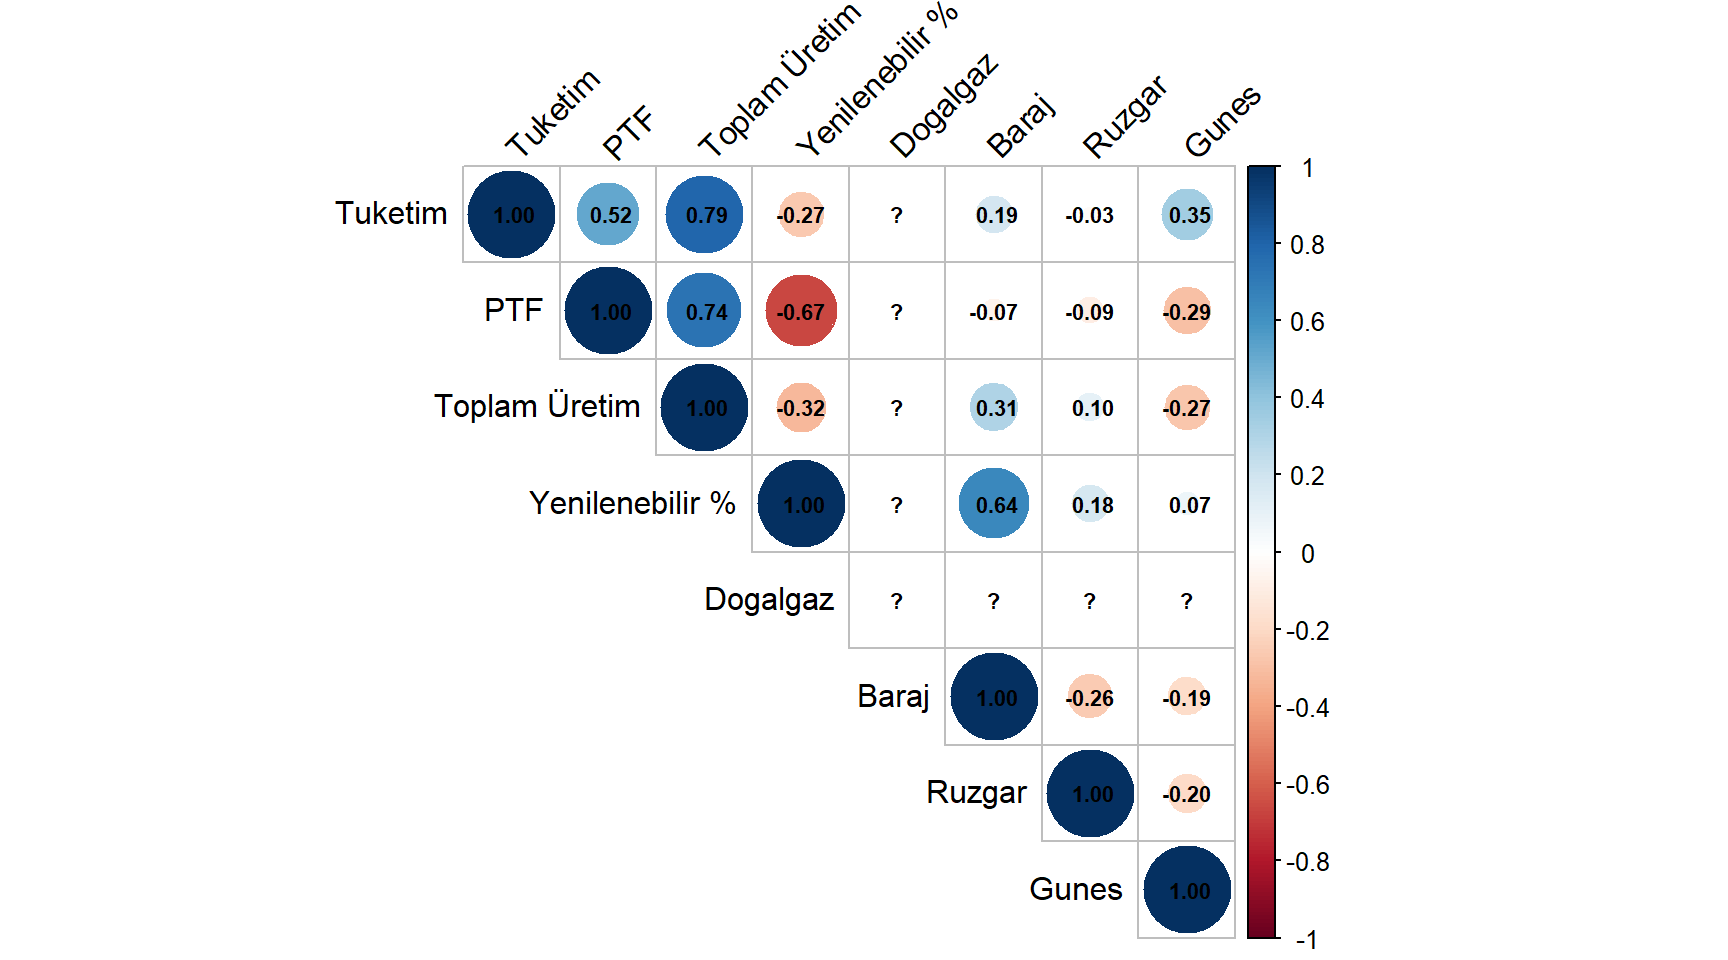
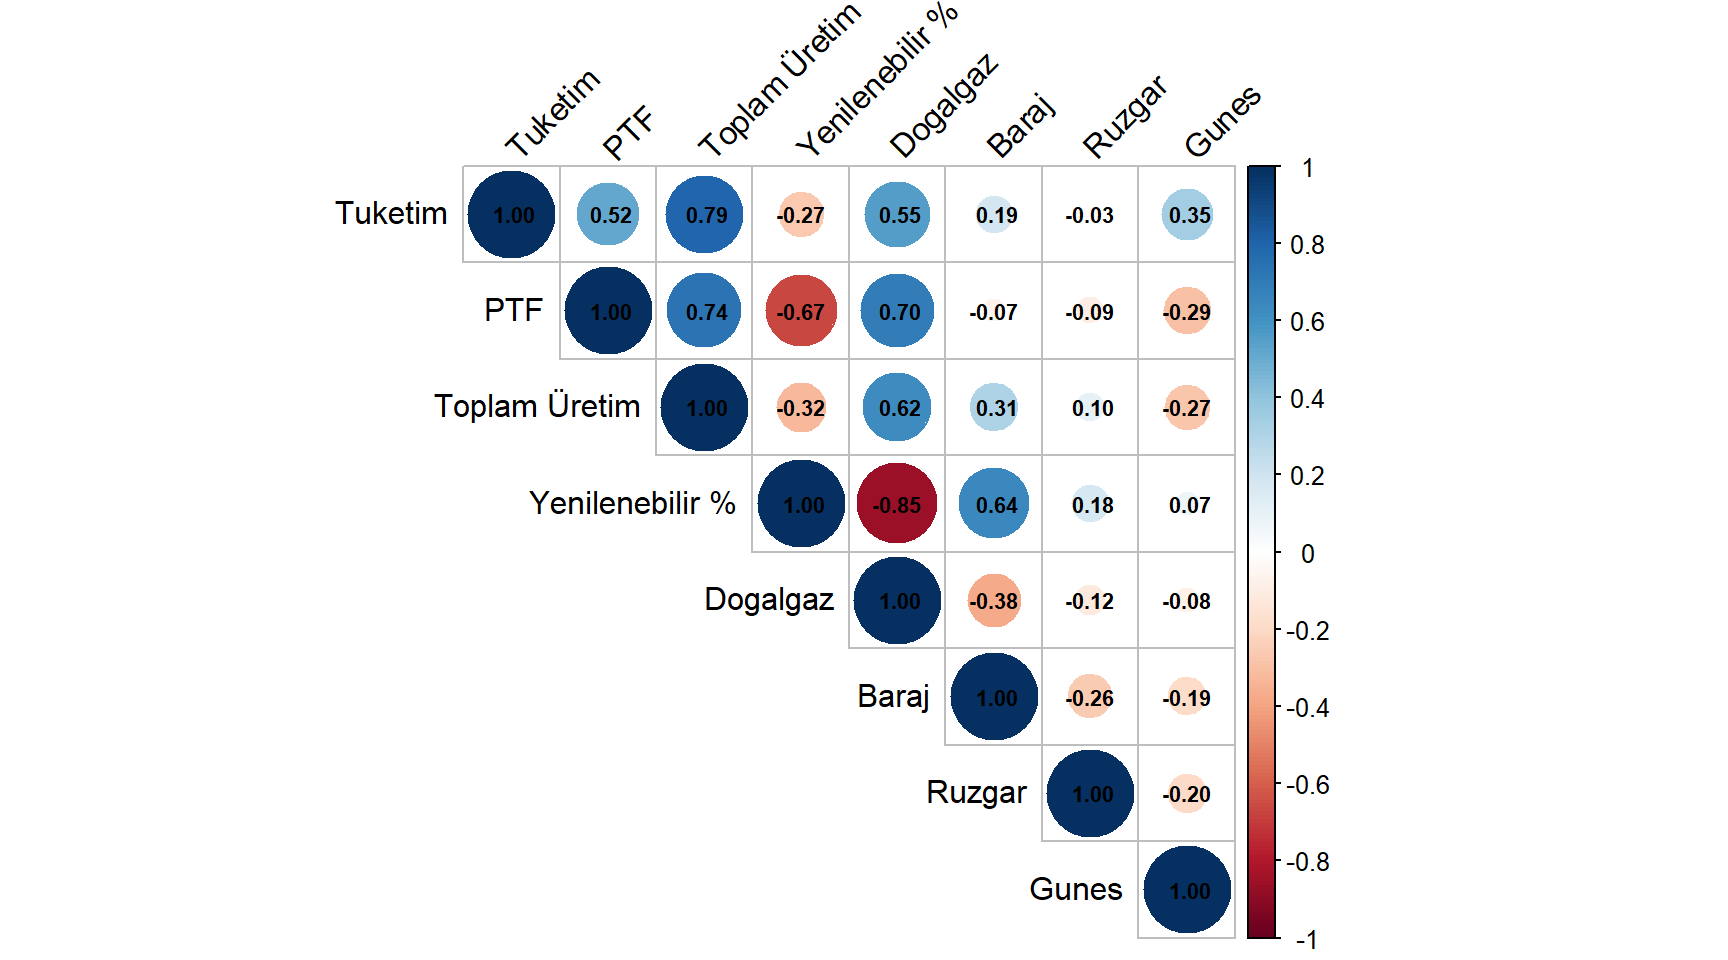
LASTEST_LAST
son duzenleme

Changed region(s): [[0.4688, 0.1875, 0.5938, 0.6875], [0.625, 0.5938, 0.6562, 0.6562]]

diff --git a/docs/proje.html b/docs/proje.html
@@ -903,7 +903,7 @@ F-statistic:  1430 on 2 and 2181 DF,  p-value: &lt; 2.2e-16</code></pre>
 <summary>Code</summary>
 <div class="code-copy-outer-scaffold"><div class="sourceCode cell-code" id="cb19"><pre class="sourceCode r code-with-copy"><code class="sourceCode r"><span id="cb19-1"><a href="#cb19-1" aria-hidden="true" tabindex="-1"></a>kor_src <span class="ot">&lt;-</span> <span class="fu">tibble</span>(</span>
 <span id="cb19-2"><a href="#cb19-2" aria-hidden="true" tabindex="-1"></a>  <span class="at">tarih    =</span> kaynak_genis<span class="sc">$</span>tarih,</span>
-<span id="cb19-3"><a href="#cb19-3" aria-hidden="true" tabindex="-1"></a>  <span class="at">Dogalgaz =</span> <span class="fu">pick_col</span>(kaynak_genis, <span class="st">"dogalgaz|gas"</span>),</span>
+<span id="cb19-3"><a href="#cb19-3" aria-hidden="true" tabindex="-1"></a>  <span class="at">Dogalgaz =</span> <span class="fu">pick_col</span>(kaynak_genis, <span class="st">"dogal"</span>),</span>
 <span id="cb19-4"><a href="#cb19-4" aria-hidden="true" tabindex="-1"></a>  <span class="at">Baraj    =</span> <span class="fu">pick_col</span>(kaynak_genis, <span class="st">"baraj"</span>),</span>
 <span id="cb19-5"><a href="#cb19-5" aria-hidden="true" tabindex="-1"></a>  <span class="at">Ruzgar   =</span> <span class="fu">pick_col</span>(kaynak_genis, <span class="st">"ruzgar|wind"</span>),</span>
 <span id="cb19-6"><a href="#cb19-6" aria-hidden="true" tabindex="-1"></a>  <span class="at">Gunes    =</span> <span class="fu">pick_col</span>(kaynak_genis, <span class="st">"gunes|solar"</span>)</span>
@@ -1822,7 +1822,7 @@ F-statistic:  1430 on 2 and 2181 DF,  p-value: &lt; 2.2e-16</code></pre>
 <span id="cb20-439"><a href="#cb20-439" aria-hidden="true" tabindex="-1"></a><span class="co">#| label: korelasyon</span></span>
 <span id="cb20-440"><a href="#cb20-440" aria-hidden="true" tabindex="-1"></a>kor_src <span class="ot">&lt;-</span> <span class="fu">tibble</span>(</span>
 <span id="cb20-441"><a href="#cb20-441" aria-hidden="true" tabindex="-1"></a>  <span class="at">tarih    =</span> kaynak_genis<span class="sc">$</span>tarih,</span>
-<span id="cb20-442"><a href="#cb20-442" aria-hidden="true" tabindex="-1"></a>  <span class="at">Dogalgaz =</span> <span class="fu">pick_col</span>(kaynak_genis, <span class="st">"dogalgaz|gas"</span>),</span>
+<span id="cb20-442"><a href="#cb20-442" aria-hidden="true" tabindex="-1"></a>  <span class="at">Dogalgaz =</span> <span class="fu">pick_col</span>(kaynak_genis, <span class="st">"dogal"</span>),</span>
 <span id="cb20-443"><a href="#cb20-443" aria-hidden="true" tabindex="-1"></a>  <span class="at">Baraj    =</span> <span class="fu">pick_col</span>(kaynak_genis, <span class="st">"baraj"</span>),</span>
 <span id="cb20-444"><a href="#cb20-444" aria-hidden="true" tabindex="-1"></a>  <span class="at">Ruzgar   =</span> <span class="fu">pick_col</span>(kaynak_genis, <span class="st">"ruzgar|wind"</span>),</span>
 <span id="cb20-445"><a href="#cb20-445" aria-hidden="true" tabindex="-1"></a>  <span class="at">Gunes    =</span> <span class="fu">pick_col</span>(kaynak_genis, <span class="st">"gunes|solar"</span>)</span>